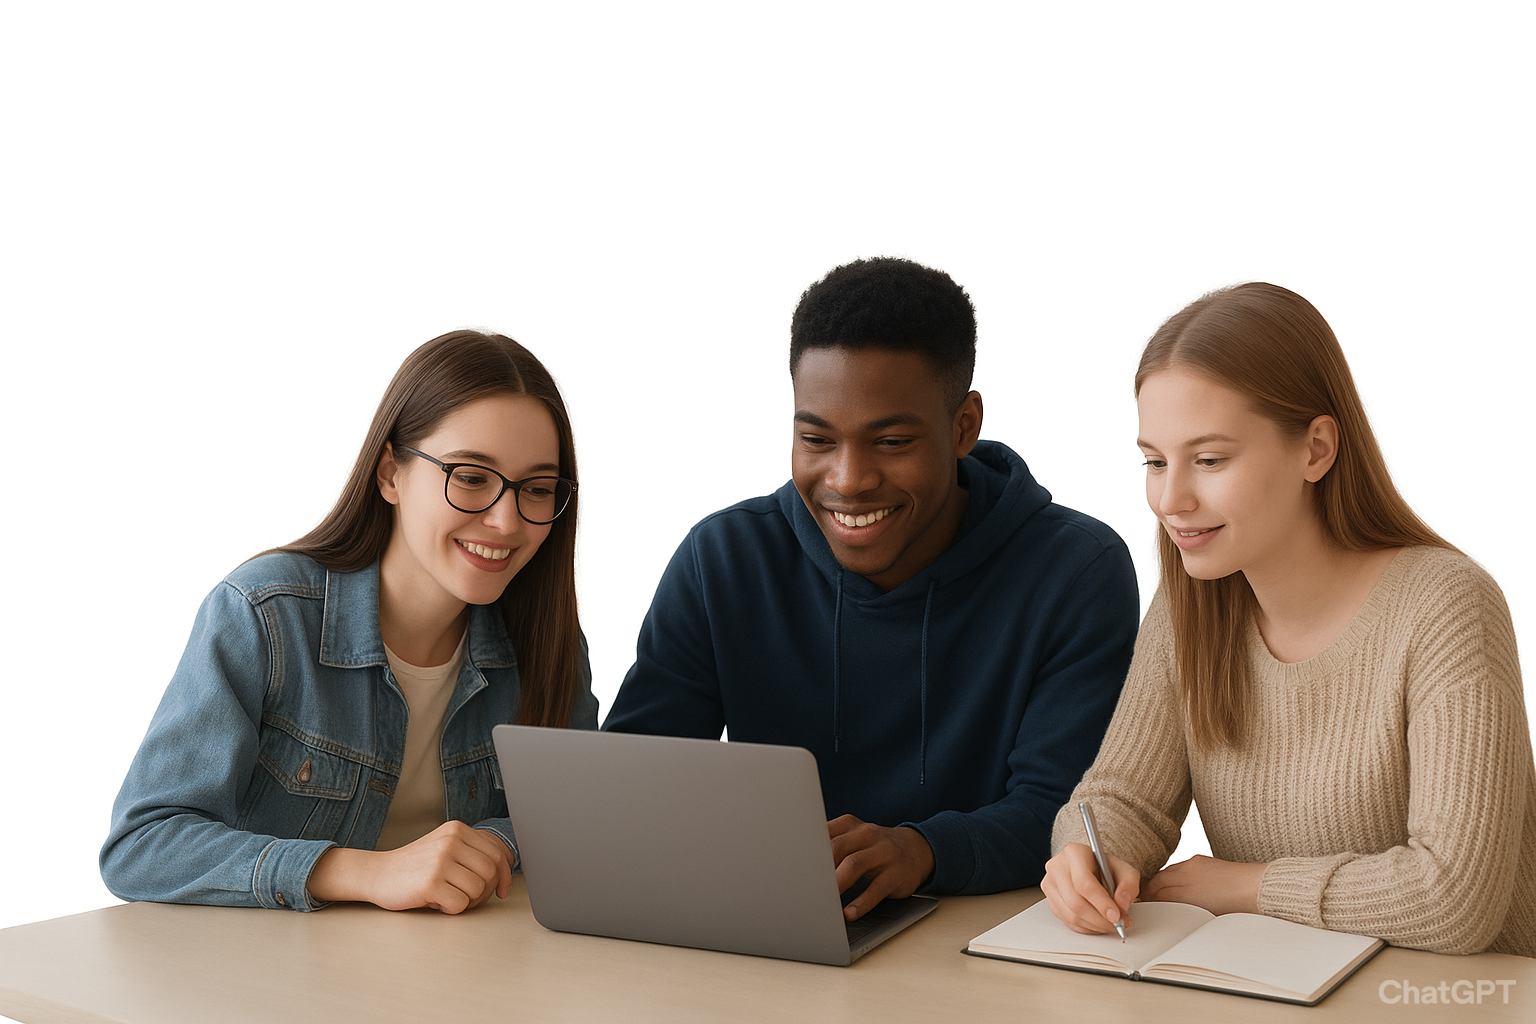
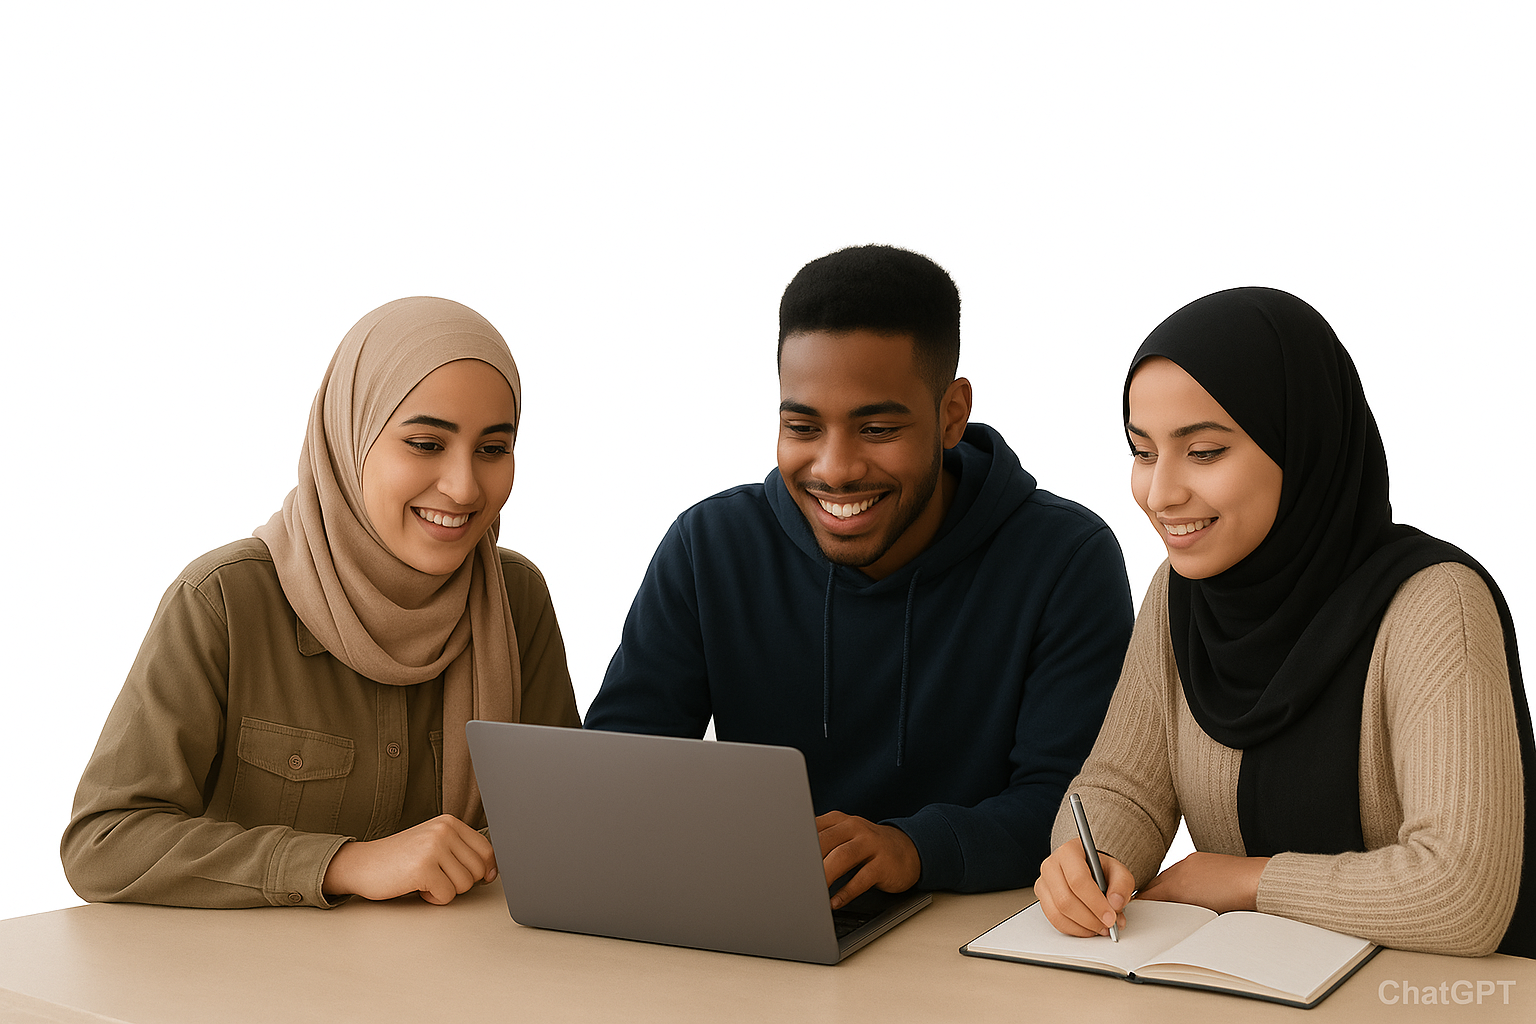
change landing page pic + edit delete comment modal

Changed region(s): [[0.0, 0.2188, 1.0, 1.0]]

diff --git a/src/pages/Home/Feed/CommentsModal.jsx b/src/pages/Home/Feed/CommentsModal.jsx
@@ -65,9 +65,10 @@ const Comment = ({ comment, onEdit, onDelete, currentUserName }) => {
             text: "You won't be able to revert this!",
             icon: "warning",
             showCancelButton: true,
-            confirmButtonColor: "#3085d6",
-            cancelButtonColor: "#d33",
             confirmButtonText: "Yes, delete it!",
+            didOpen: (popup) => {
+                popup.parentElement.style.zIndex = 20000;
+            }
         });
 
         if (result.isConfirmed) onDelete(comment.id);
